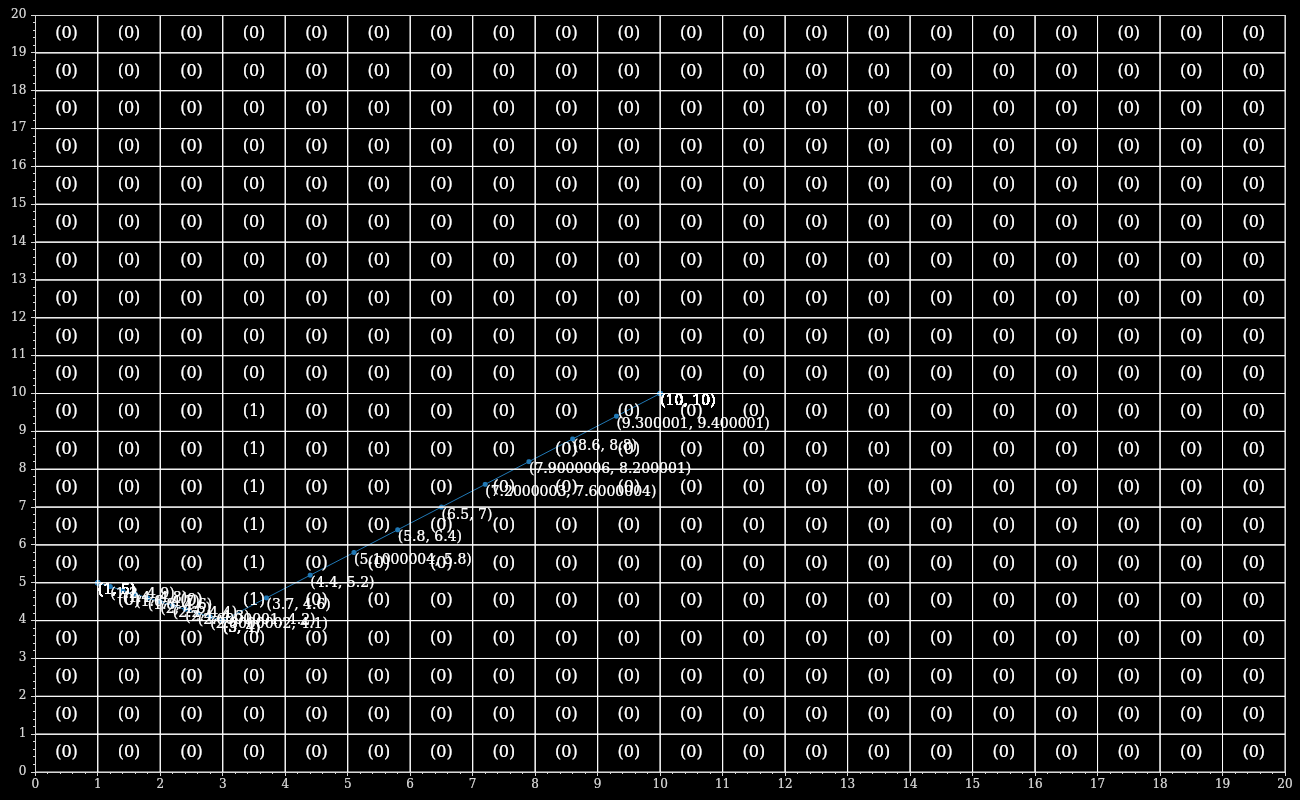
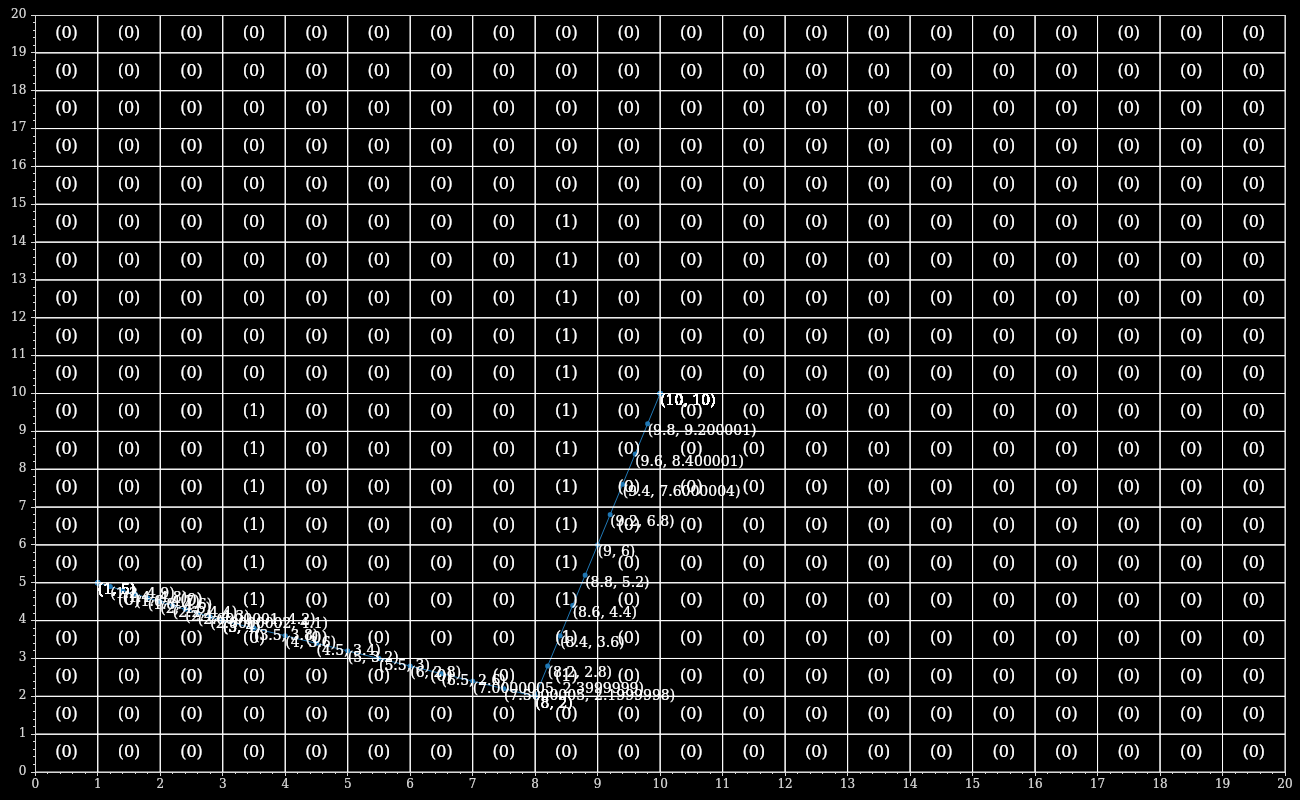
fix: select closest edge for each obstacle independently

Changed region(s): [[0.3385, 0.5, 0.5846, 0.875], [0.2154, 0.625, 0.3692, 0.75], [0.1846, 0.75, 0.3385, 0.8438]]

diff --git a/MainAlgorithm/EdgeNav.cs b/MainAlgorithm/EdgeNav.cs
@@ -125,30 +125,40 @@ public class EdgeNav(
         var openList = new PriorityQueue<Node, int>();
 
         int currentDis = CalculateDistance(startPos, endPos);
+
         Node currentNode = CreateNode(
             startPos, 0, currentDis
         );
+
         nodes.Add(currentNode);
 
-        foreach(var kvp in obstaclesEdges)
+        foreach (var kvp in obstaclesEdges)
         {
-            foreach(var val in kvp.Value)
+            foreach (var val in kvp.Value)
             {
-                int tentativeG = currentNode.g + 
+                int tentativeG = currentNode.g +
                     CalculateDistance(currentNode.position, val);
+
                 currentDis = CalculateDistance(val, endPos);
+
                 Node nextNode = CreateNode(
                     val, tentativeG, currentDis
                 );
+
                 openList.Enqueue(nextNode, nextNode.f);
             }
 
-            currentNode = openList.Dequeue();
-            nodes.Add(currentNode);
+            if (openList.Count > 0)
+            {
+                currentNode = openList.Dequeue();
+                nodes.Add(currentNode);
+            }
+
+            openList.Clear();
         }
 
         nodes.Add(CreateNode(endPos, 0, 0));
-        return nodes;        
+        return nodes;
     }
     
     public List<(float X, float Y)> ConnectNodes()

diff --git a/MainAlgorithm/MakeGrid.cs b/MainAlgorithm/MakeGrid.cs
@@ -13,20 +13,21 @@ public class MakeGrid(int row, int col)
         }
     }
 
-    public Grid2D SetObstacles( 
-        int rowStart, 
-        int rowLen,
-        int colStart,
-        int colEnd
-    )
+    public Grid2D SetObstacles(Dictionary<string, List<int>> obstacles)
     {
         Generate();
         
-        for(int y = rowStart; y < rowLen; y++)
+        foreach(var kvp in obstacles)
         {
-            for(int x = colStart; x < colEnd; x++)
+            if(kvp.Value is [var num1, var num2, var num3, var num4])
             {
-                grid.SetValue(x, y, 1);
+                for(int y = num1; y < num2; y++)
+                {
+                    for(int x = num3; x < num4; x++)
+                    {
+                        grid.SetValue(x, y, 1);
+                    }
+                }
             }
         }
 

diff --git a/Program.cs b/Program.cs
@@ -4,9 +4,14 @@
     {
         (int X, int Y) startPos = (1, 5);
         (int X, int Y) endPos = (10, 10);
+        var obstacles = new Dictionary<string, List<int>>()
+        {
+            ["ObstacleOne"] = [4, 10, 3, 4],
+            ["ObstacleTwo"] = [2, 15, 8, 9]
+        };
 
         MakeGrid makeGrid = new(20, 20);
-        Grid2D grid = makeGrid.SetObstacles(4, 10, 3, 4);
+        Grid2D grid = makeGrid.SetObstacles(obstacles);
 
         EdgeNav edgeNav = new(startPos, endPos, grid);
         List<(float X, float Y)> path = edgeNav.ConnectNodes();
